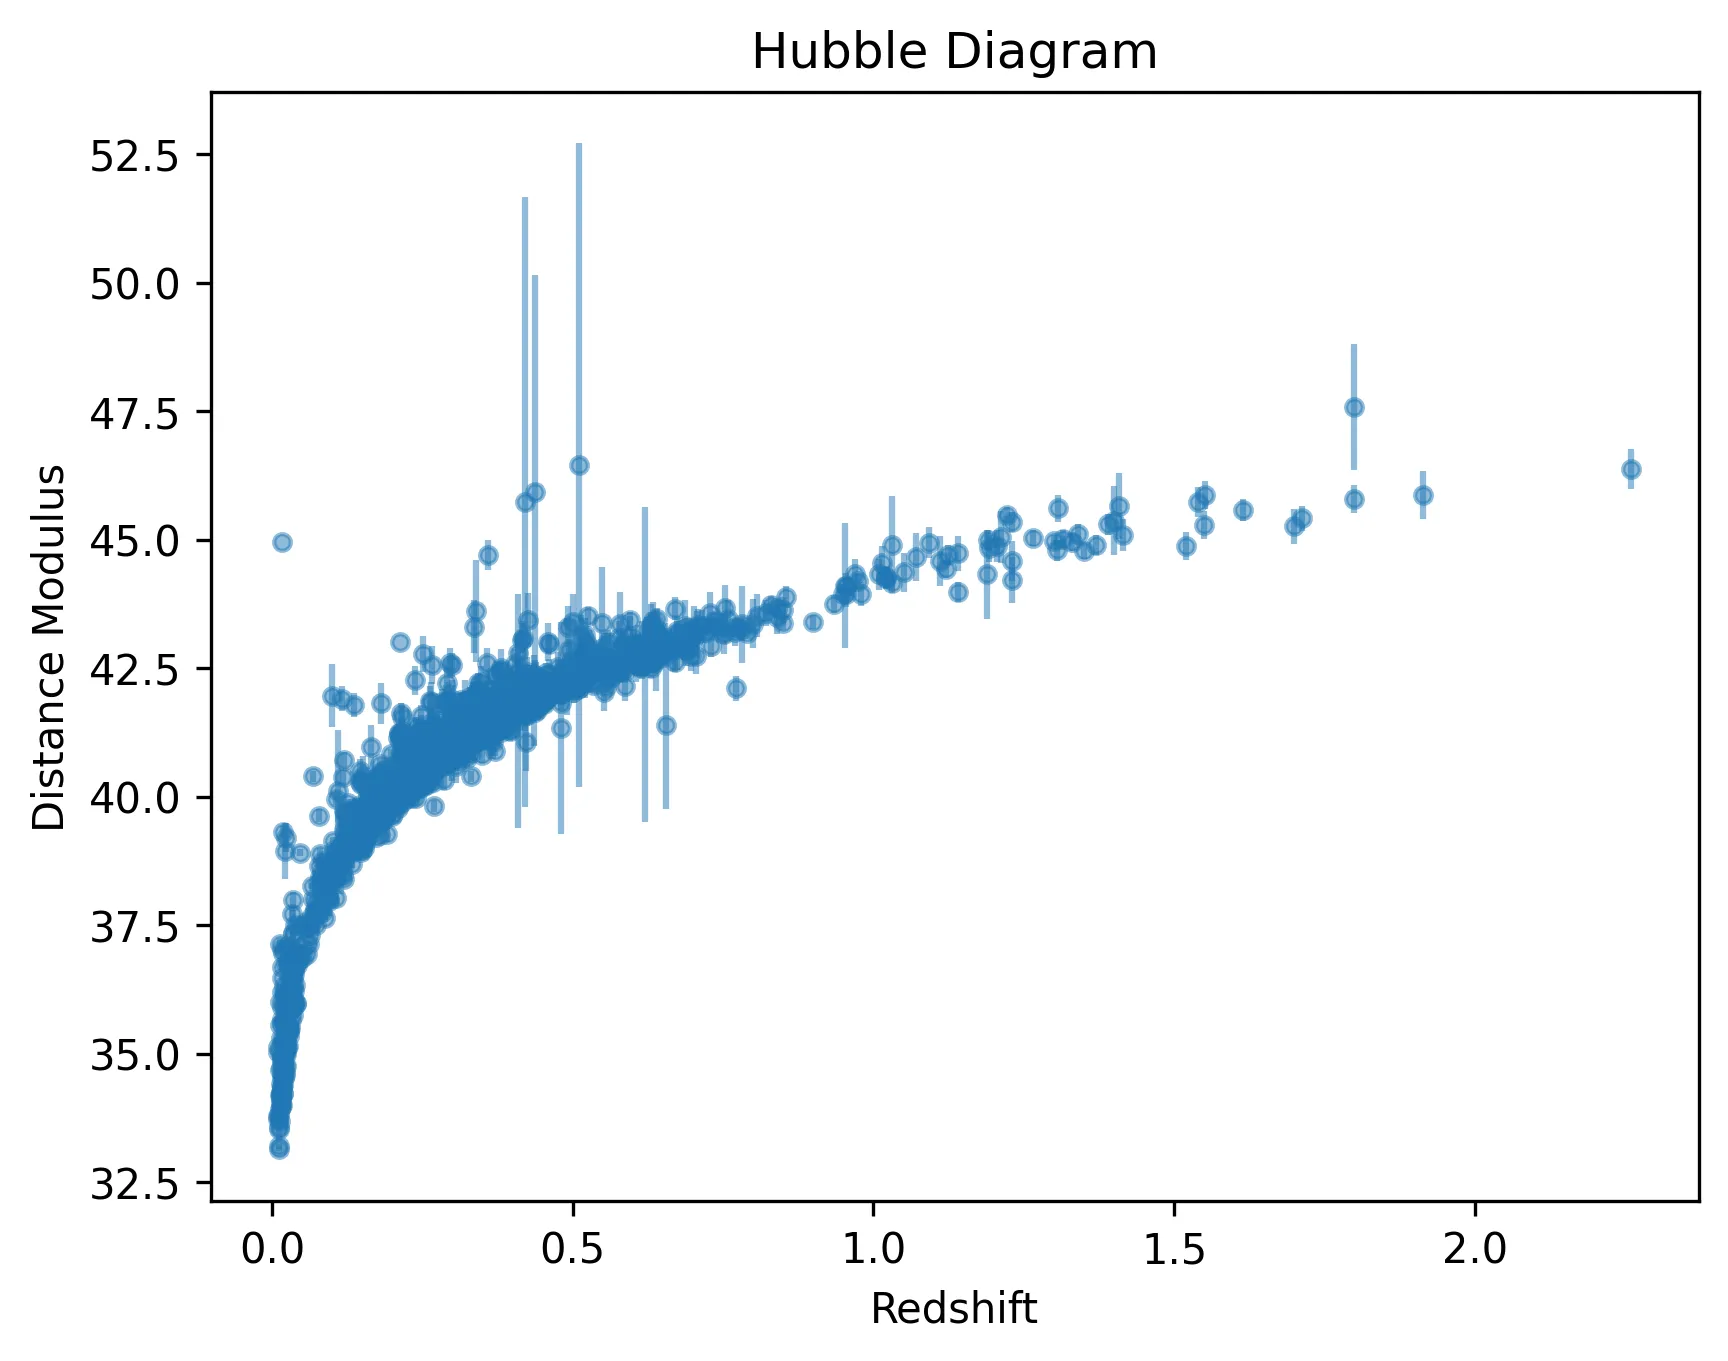
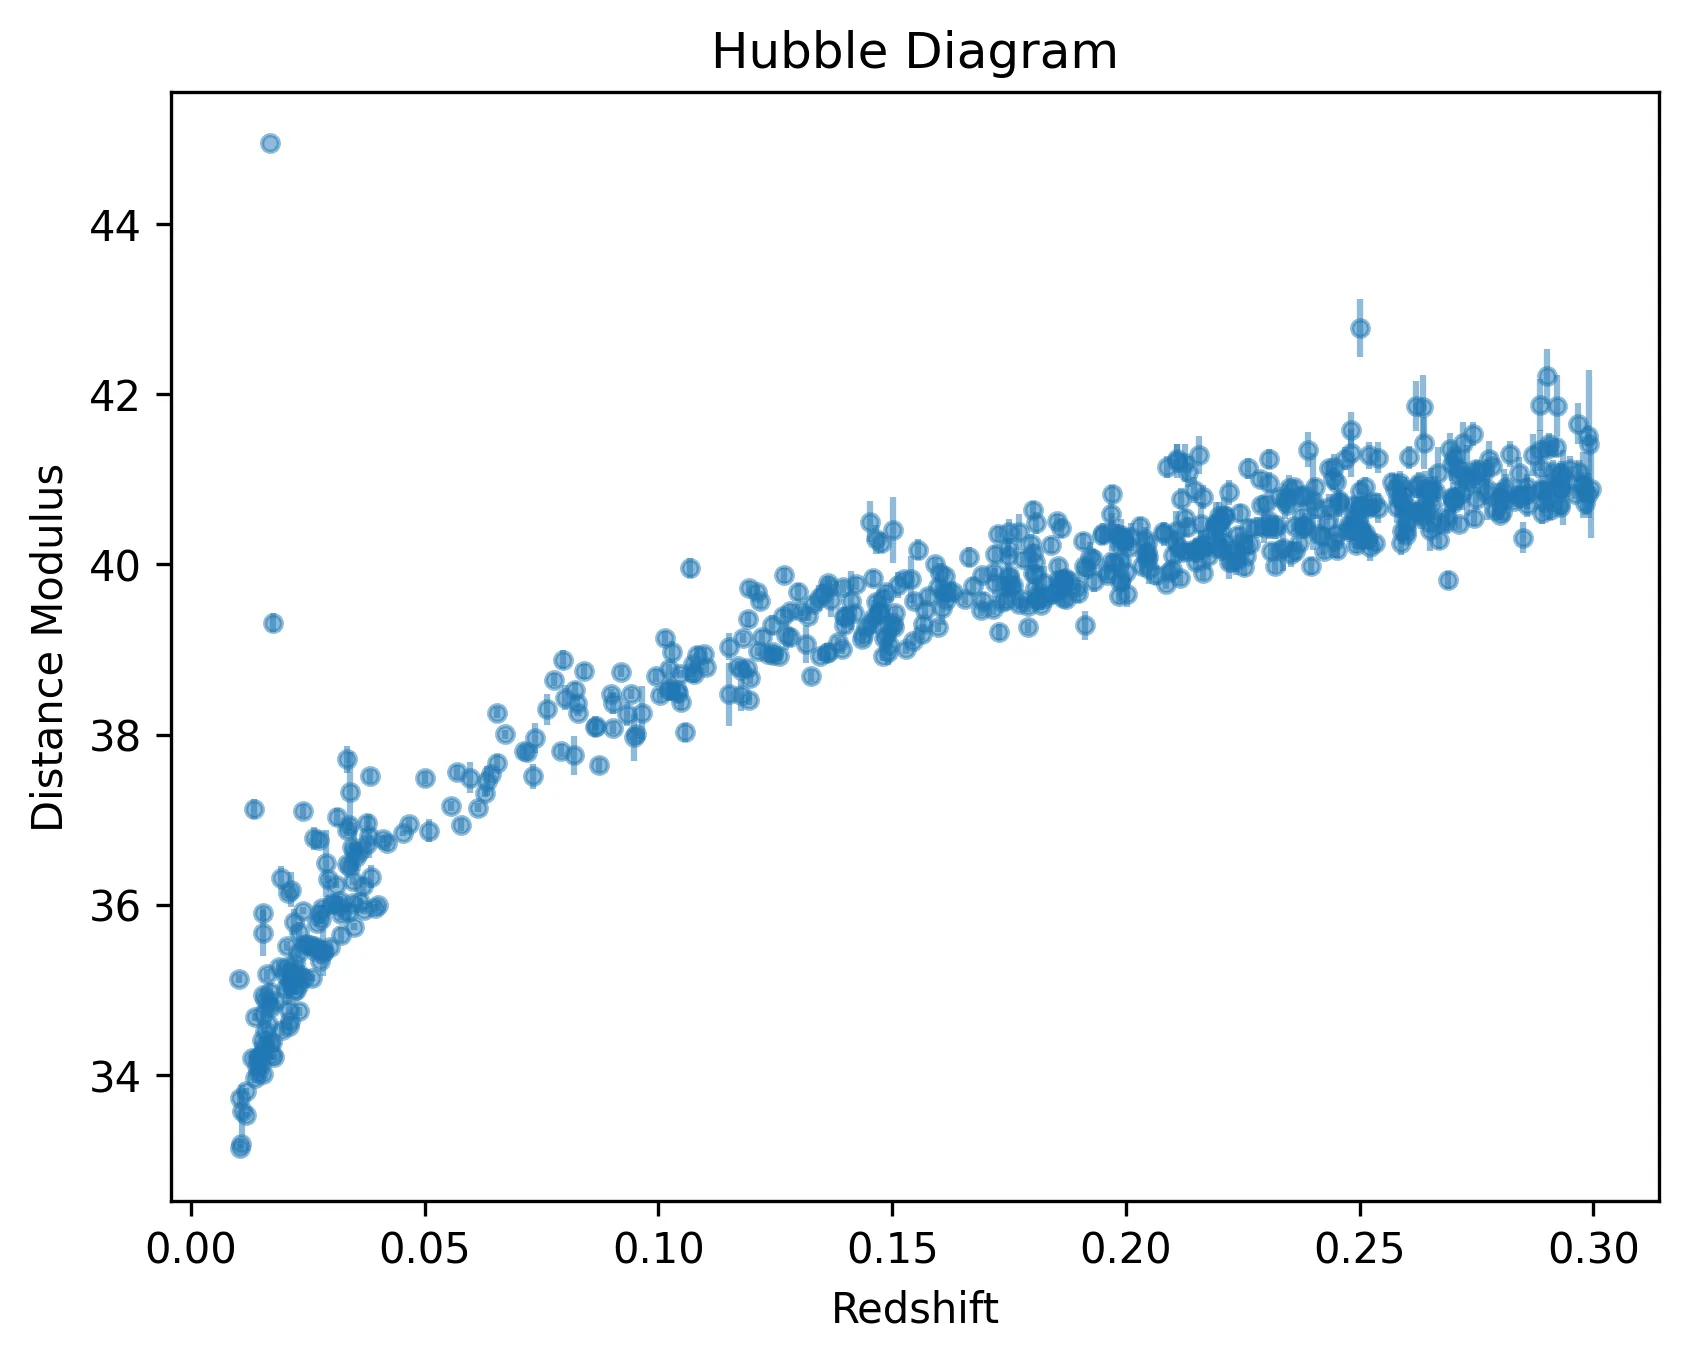
Refactoring filters

diff --git a/src/union3/config.py b/src/union3/config.py
@@ -1,8 +1,25 @@
 from pathlib import Path
 from typing import Self
 from pydantic import Field, field_validator, model_validator
+from pydantic_settings import BaseSettings
 
 from union3.utils.base_config import FileConfig
+
+
+class FilterConfig(BaseSettings):
+    min_redshift: float = Field(default=0.01, ge=0.0, description="Cut on minimum redshift.")
+    max_redshift: float = Field(default=3.0, ge=0.0, description="Cut on maximum redshift.")
+    max_first_phase: float = Field(default=100.0, description="Cut on maximum first phase.")
+    min_last_phase: float = Field(default=-100.0, description="Cut on minimum last phase.")
+    max_color_uncertainty: float = Field(default=0.2, ge=0.0, description="Cut on maximum color uncertainty.")
+    min_color: float = Field(default=-0.3, description="Cut on minimum color.")
+    max_color: float = Field(default=0.3, description="Cut on maximum color.")
+    max_MWEBV: float = Field(default=0.3, description="Cut on maximum Milky Way E(B-V).")
+
+    @model_validator(mode="after")
+    def validate_model(self) -> Self:
+        assert self.min_redshift < self.max_redshift, "min_redshift must be less than max_redshift"
+        return self
 
 
 class Config(FileConfig):
@@ -12,6 +29,9 @@ class Config(FileConfig):
     )
     data_dir: Path = Field(default=Path(__file__).parents[2] / "data")
     output_dir: Path = Field(default=Path(__file__).parents[2] / "output")
+
+    filters: FilterConfig = Field(default_factory=FilterConfig)
+
     #! Config to control what gets run
     cache_data_processing: bool = Field(
         default=True, description="Use caching for data processing and stan running if possible."
@@ -37,14 +57,6 @@ class Config(FileConfig):
 
     #! Data processing config
     do_blinding: bool = Field(default=True, description="Whether to blind the data.")
-    min_redshift: float = Field(default=0.01, ge=0.0, description="Cut on minimum redshift.")
-    max_redshift: float = Field(default=3.0, ge=0.0, description="Cut on maximum redshift.")
-    max_first_phase: float = Field(default=100.0, description="Cut on maximum first phase.")
-    min_last_phase: float = Field(default=-100.0, description="Cut on minimum last phase.")
-    max_color_uncertainty: float = Field(default=0.2, ge=0.0, description="Cut on maximum color uncertainty.")
-    min_color: float = Field(default=-0.3, description="Cut on minimum color.")
-    max_color: float = Field(default=0.3, description="Cut on maximum color.")
-    max_MWEBV: float = Field(default=0.3, description="Cut on maximum Milky Way E(B-V).")
 
     #! Data augmentation config
     peculiar_velocity_dispersion: float = Field(
@@ -79,7 +91,5 @@ class Config(FileConfig):
 
     @model_validator(mode="after")
     def validate_model(self) -> Self:
-        assert self.min_redshift < self.max_redshift, "min_redshift must be less than max_redshift"
-
         self.output_dir.mkdir(parents=True, exist_ok=True)
         return self